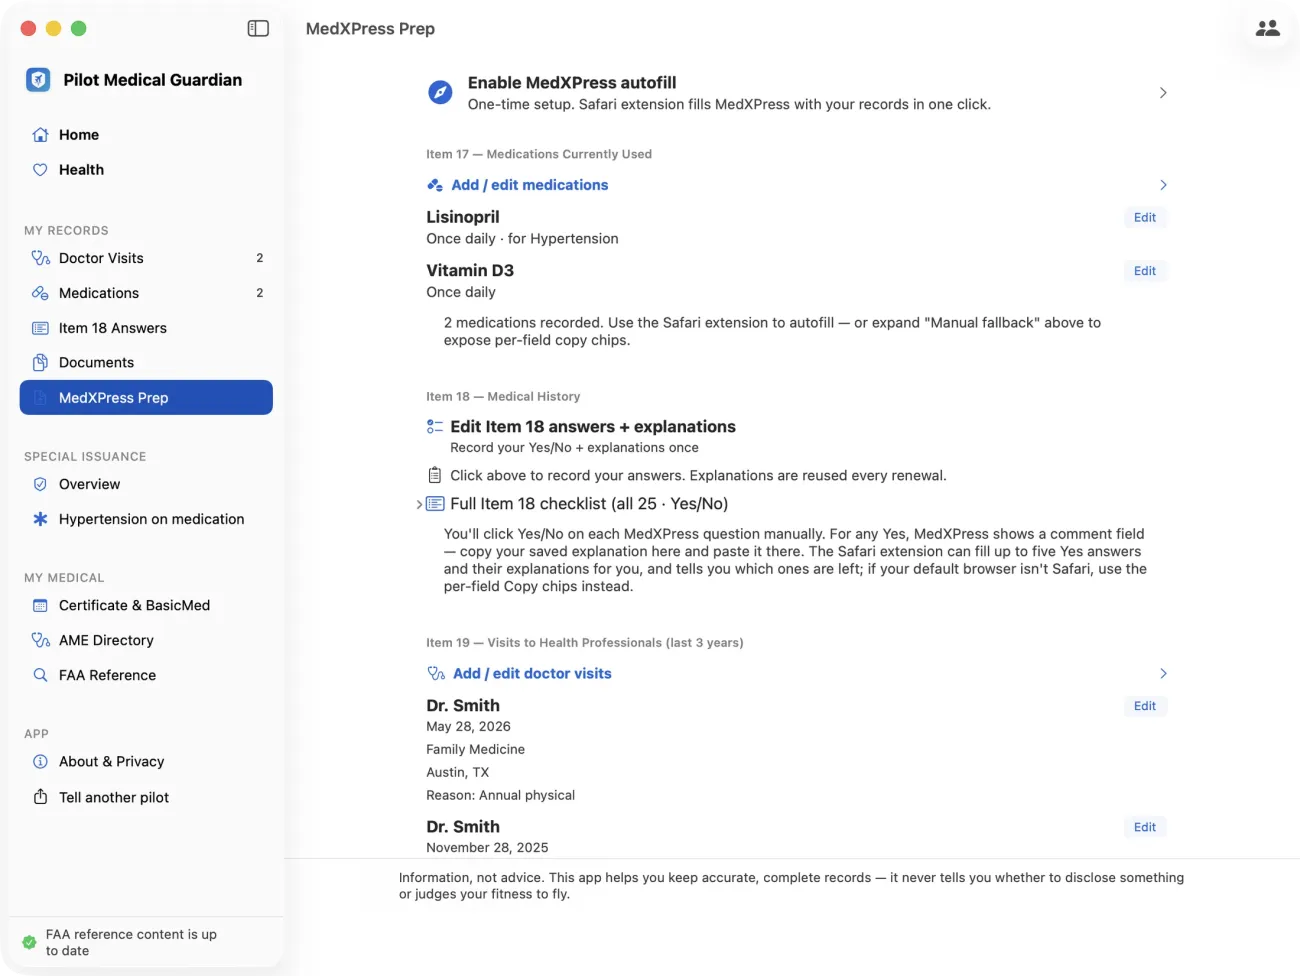
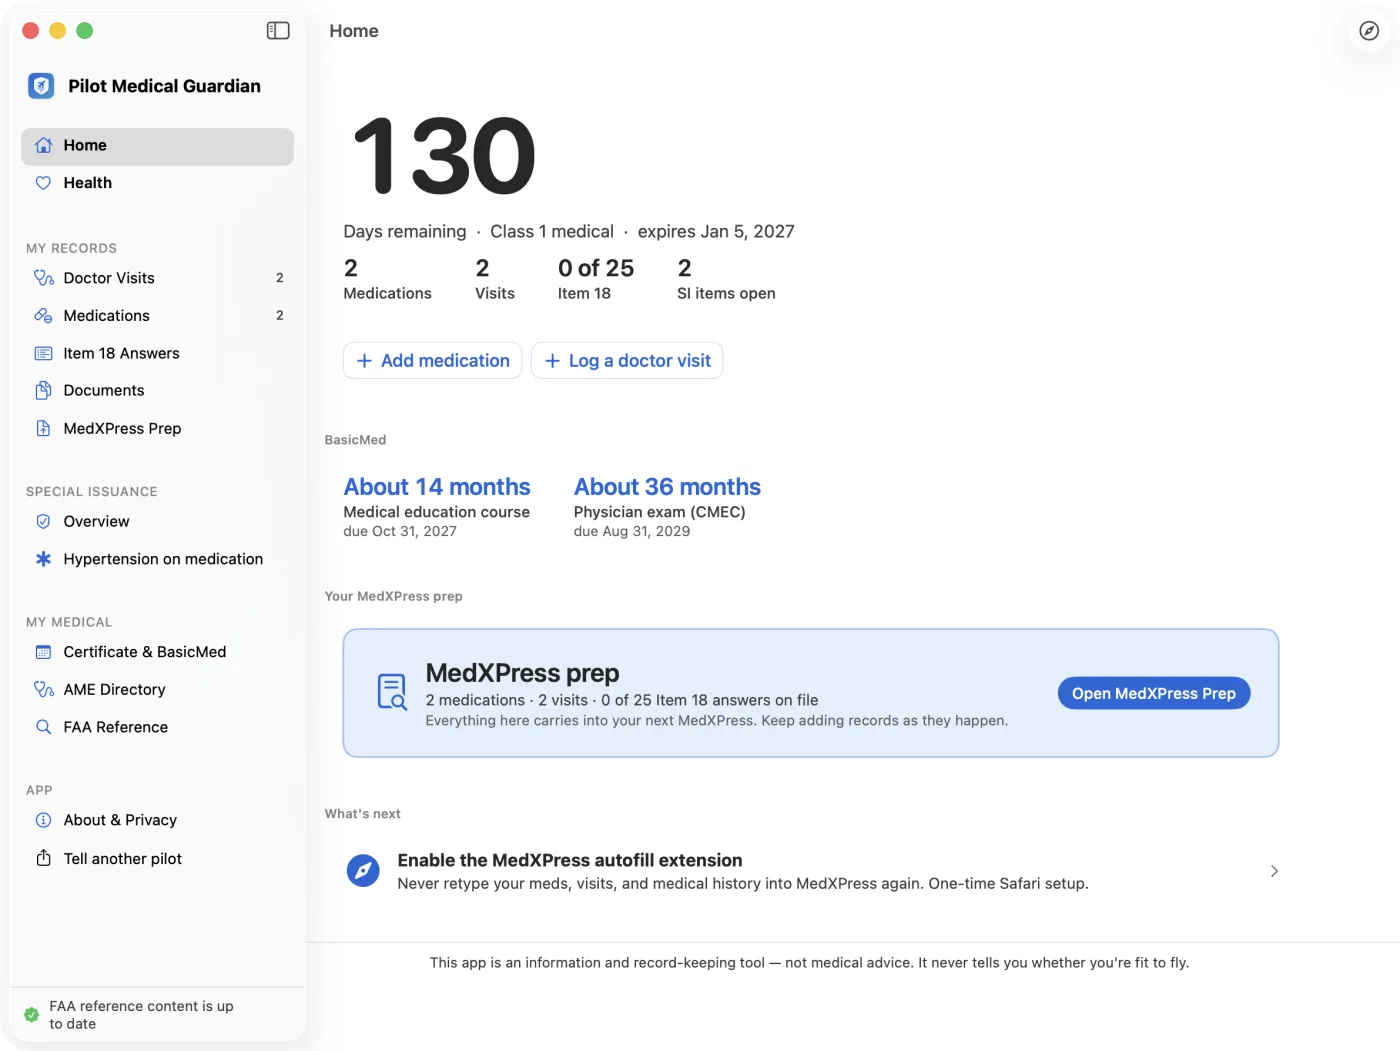
Hero: one baseline row, no overlap, Mac Home as the lead shot
Ryan's direction: one hero device with the other two as proof, not a
pile. Overlap is what makes it look like a template.

Mac is now the Home screen with the 130, not MedXPress Prep, at 60% with
iPad and iPhone at 19% each, all three bottoms aligned on one baseline
and real gaps between them. Measured: bottoms at an identical y, no
overlap, no horizontal overflow. Headline stays two lines and both
buttons are untouched.

The Mac source is a window capture with transparent rounded corners, so
it takes a drop-shadow filter that follows the alpha rather than a border
that would box it. My earlier corner-sampling heuristic called that
transparency dark marketing art and had it backwards; alpha is the real
discriminator.

Two layout bugs caught by measuring rather than looking. The 1400px Mac
blew out the grid column because an fr track has a min-content floor,
fixed with min-width 0 on the grid children. And the mobile rule to hide
the Mac and iPad silently lost to .device-row img, which outranks a bare
class, so mobile was still cramming three devices onto 375px. Both noted
in the CSS.

Device row is 223px tall against 485px for the stack, so the reviews row
stays above the fold on a 1280x800 laptop. Mobile shows the phone alone
at 210px.

diff --git a/index.html b/index.html
@@ -130,27 +130,31 @@
     .hero2-sub strong { color: var(--text); font-weight: 600; }
     .hero2 .links.cta { margin-top: 24px; }
     .hero2-media { justify-self: center; width: 100%; }
-    /* Three-device cluster: Mac behind, iPad and iPhone in front — the app
-       ships on all three from one App Store listing, so the hero says so. */
-    .device-stack { position: relative; width: 100%; max-width: 545px; margin: 0 auto; aspect-ratio: 1 / 0.95; }
-    .device-stack img { position: absolute; display: block; height: auto; background: var(--bg); }
-    .dev-mac {
-      width: 100%; top: 0; left: 0; border-radius: 10px; border: 1px solid var(--rule);
-      box-shadow: 0 22px 48px rgba(16,22,34,0.20), 0 5px 14px rgba(16,22,34,0.10);
-    }
-    .dev-ipad {
-      width: 42%; left: 0; bottom: 0; border-radius: 14px; border: 1px solid var(--rule);
-      box-shadow: 0 18px 40px rgba(16,22,34,0.24), 0 4px 12px rgba(16,22,34,0.12);
-    }
-    .dev-iphone {
-      width: 24%; right: 3%; bottom: 0; border-radius: 16px; border: 1px solid var(--rule);
-      box-shadow: 0 16px 36px rgba(16,22,34,0.26), 0 3px 10px rgba(16,22,34,0.14);
+    /* One hero device, two as proof. A ROW on a single baseline, no overlap:
+       overlap reads as a template. Mac 60 / iPad 19 / iPhone 19, gaps take the rest. */
+    /* min-width:0 on the grid children: an fr column has a min-content floor, and
+       the 1400px Mac would otherwise blow the column out and crush the text. */
+    .hero2 .container > * { min-width: 0; }
+    .device-row { display: flex; align-items: flex-end; justify-content: center; gap: clamp(10px, 2.4%, 18px); width: 100%; }
+    .device-row img { display: block; height: auto; min-width: 0; max-width: 100%; }
+    /* The Mac is a WINDOW capture with transparent rounded corners, so it gets a
+       drop-shadow filter (follows the alpha) and no border, which would box it. */
+    .dev-mac { flex: 0 1 60%; filter: drop-shadow(0 18px 34px rgba(16,22,34,0.22)) drop-shadow(0 4px 10px rgba(16,22,34,0.10)); }
+    /* The tablet and phone are square-cornered screen captures, so they get a real radius + hairline. */
+    .dev-ipad, .dev-iphone {
+      flex: 0 1 19%; border-radius: 9px; border: 1px solid var(--rule); background: var(--bg);
+      box-shadow: 0 12px 26px rgba(16,22,34,0.18), 0 3px 8px rgba(16,22,34,0.10);
     }
     @media (max-width: 760px) {
       .hero2 .container { grid-template-columns: 1fr; gap: 28px; text-align: center; padding-top: 40px; padding-bottom: 52px; }
       .hero2-sub { margin-left: auto; margin-right: auto; }
       .hero2 .links.cta { justify-content: center; }
-      .device-stack { max-width: 380px; }
+      /* Phone visitors get the phone, full size. Three devices on a 390px
+         screen is three unreadable thumbnails. */
+      /* NOTE the descendant selector: `.device-row img` (0-1-1) outranks a bare
+         `.dev-mac` (0-1-0), so a plain class rule here silently loses to display:block. */
+      .device-row img.dev-mac, .device-row img.dev-ipad { display: none; }
+      .dev-iphone { flex: 0 0 210px; border-radius: 22px; }
       .hero2 .proof { text-align: center; }
     }
 
@@ -295,8 +299,8 @@
         <p class="proof">Pilots are already using it to prep their <span class="q">actual FAA medical</span>.</p>
       </div>
       <div class="hero2-media">
-        <div class="device-stack">
-          <img class="dev-mac" src="/screenshots/hero-mac.webp?v=20260902" width="1300" height="976" fetchpriority="high" decoding="async" alt="Pilot Medical Guardian on a Mac, showing the MedXPress Prep screen with medications under Item 17 and doctor visits under Item 19">
+        <div class="device-row">
+          <img class="dev-mac" src="/screenshots/hero-mac.webp?v=20260902b" width="1400" height="1051" fetchpriority="high" decoding="async" alt="Pilot Medical Guardian on a Mac, showing the home screen with 130 days remaining on a Class 1 medical expiring January 5, 2027">
           <img class="dev-ipad" src="/screenshots/hero-ipad.webp?v=20260902" width="760" height="1014" decoding="async" alt="Pilot Medical Guardian on an iPad, showing the home screen">
           <img class="dev-iphone" src="/screenshots/hero-iphone.webp?v=20260902" width="620" height="1347" decoding="async" alt="Pilot Medical Guardian on an iPhone, showing the time until the medical certificate expires with BasicMed course and exam countdowns">
         </div>
